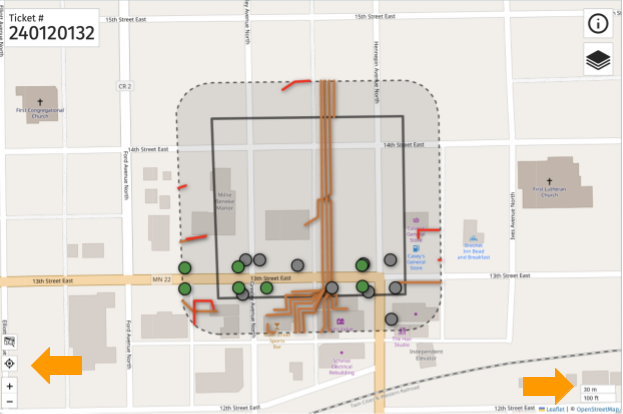
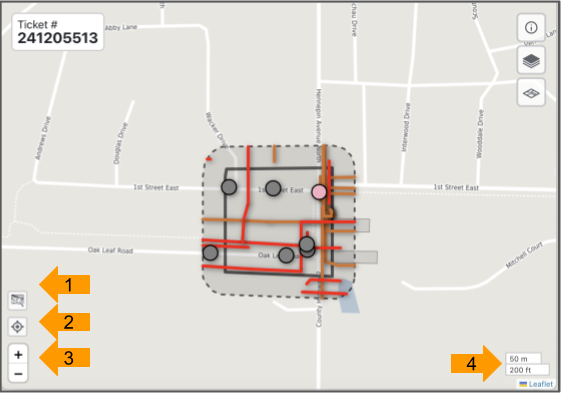
updates to navigation doc and image

Changed region(s): [[0.0, 0.0, 1.0, 1.0], [0.7879, 0.7939, 0.8182, 0.8244]]

diff --git a/source/ticketviewer.rst b/source/ticketviewer.rst
@@ -84,7 +84,6 @@ From the Ticket Viewer, select the **Layers** icon at the top right to see avail
 From the Layers page, customize your view:
  * Click any available feature layer to toggle it on or off. 
  * Layers with no features are grayed out.
- * Select Aerial to change the Basemap from the default OpenStreetMap. 
 
 .. figure:: /_static/Layers2.png
    :alt: Ticket Layers
@@ -117,11 +116,10 @@ Navigation
 -----------
 
 Use the **navigation options** at the bottom left to:
- * Fit the ticket boundaries to the current window. 
- * Zoom to current location to map your current location. 
- * Zoom in (+) and out (-). 
-
-The **scale** in the bottom right helps to estimate the size of the ticket boundary in meters and feet.
+ 1. Fit the ticket boundaries to the current window. 
+ 2. Zoom to your current location. 
+ 3. Zoom in (+) and out (-). 
+ 4. The **scale** in the bottom right helps to estimate the size of the ticket boundary in meters and feet.
 
 .. figure:: /_static/Navigation1.png
    :alt: Ticket Viewer Navigation Options
